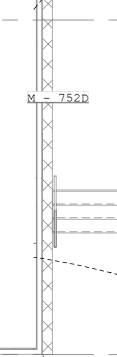
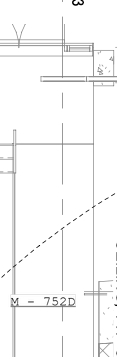
good coverage. now the full text fits completely within the image

diff --git a/scripts/combine_text_w_image.py b/scripts/combine_text_w_image.py
@@ -8,16 +8,6 @@ OUTPUT_DIR = "synthetic_dataset/final_images"
 
 GREY_COLOR = (128, 128, 128, 255)  # Grey color for filling transparent areas
 
-def randomize_background(background):
-    rotation_angle = random.choice([0, 90, 180, 270])
-    return background.rotate(rotation_angle, expand=False), rotation_angle
-
-def trim_canvas(image):
-    bbox = ImageChops.invert(image.convert("RGBA").getchannel("A")).getbbox()
-    if bbox:
-        return image.crop(bbox)
-    return image
-
 def fill_transparent_space(image, fill_color):
     background = Image.new("RGBA", image.size, fill_color)
     background.paste(image, (0, 0), image)
@@ -39,8 +29,6 @@ def apply_backgrounds_to_text_images():
         background_path = random.choice(background_images)
         background = Image.open(background_path).convert("RGBA")
 
-        background, rotation_angle = randomize_background(background)
-
         scale_factor = random.uniform(0.2, 0.4)  # Smaller text to fit inside
         smaller_text_size = (int(text_image.width * scale_factor), int(text_image.height * scale_factor))
         text_image = text_image.resize(smaller_text_size, Image.LANCZOS)
@@ -60,4 +48,4 @@ def apply_backgrounds_to_text_images():
         output_path = os.path.join(OUTPUT_DIR, os.path.basename(text_image_path))
         final_image.save(output_path)
 
-        print(f"Created: {output_path} | Background: {os.path.basename(background_path)} | Rotated: {rotation_angle}° | Text Scale: {scale_factor:.2f} | Position: ({random_x}, {random_y})")
+        print(f"Created: {output_path} | Background: {os.path.basename(background_path)} | Text Scale: {scale_factor:.2f} | Position: ({random_x}, {random_y})")
